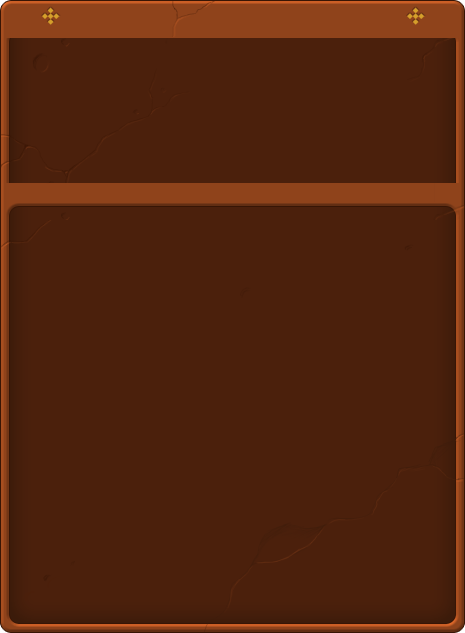
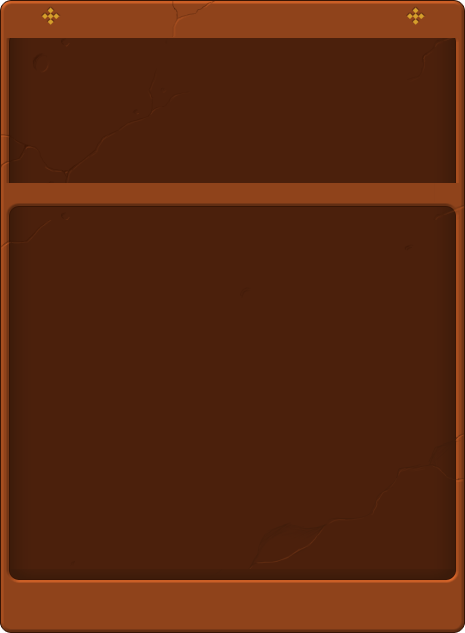
Seed Chooser polish

Changed region(s): [[0.0, 0.9005, 0.9935, 0.9905]]

diff --git a/Lawn/Widget/SeedChooserScreen.cpp b/Lawn/Widget/SeedChooserScreen.cpp
@@ -22,7 +22,7 @@
 #include "../../SexyAppFramework/Slider.h"
 #include "../System/PoolEffect.h"
 
-const Rect cSeedClipRect = Rect(0, 303, BOARD_WIDTH, 238 + SEED_CHOOSER_EXTRA_HEIGHT);
+const Rect cSeedClipRect = Rect(10, 294, 445, 252 + SEED_CHOOSER_EXTRA_HEIGHT);
 const int cSeedPacketYOffset = 2;
 const int cSeedPacketRows = 8;
 
@@ -54,7 +54,7 @@ SeedChooserScreen::SeedChooserScreen()
 	mStartButton->SetFont(Sexy::FONT_DWARVENTODCRAFT18YELLOW);
 	mStartButton->mColors[ButtonWidget::COLOR_LABEL] = Color::White;
 	mStartButton->mColors[ButtonWidget::COLOR_LABEL_HILITE] = Color::White;
-	mStartButton->Resize(154, 545 + SEED_CHOOSER_EXTRA_HEIGHT, 156, 42);
+	mStartButton->Resize(154, 552 + SEED_CHOOSER_EXTRA_HEIGHT, 156, 42);
 	mStartButton->mTextOffsetY = -1;
 	EnableStartButton(false);
 	mStartButton->mParentWidget = this;
@@ -308,7 +308,7 @@ void SeedChooserScreen::GetSeedPositionInChooser(int theIndex, int& x, int& y)
 	else
 	{
 		x = theIndex % cSeedPacketRows * 53 + 22;
-		y = theIndex / cSeedPacketRows * (SEED_PACKET_HEIGHT + cSeedPacketYOffset) + (SEED_PACKET_HEIGHT + 233) - mScrollPosition; //53  where seeds start
+		y = theIndex / cSeedPacketRows * (SEED_PACKET_HEIGHT + cSeedPacketYOffset) + (SEED_PACKET_HEIGHT + 231) - mScrollPosition; //53  where seeds start
 	}
 }
 
@@ -397,16 +397,16 @@ void SeedChooserScreen::Draw(Graphics* g)
 			mPreviewSeed == SeedType::SEED_FLOWERPOT ? Sexy::IMAGE_SEEDCHOOSER_GROUNDROOF : Sexy::IMAGE_SEEDCHOOSER_GROUNDDAY,
 			37, 125);
 	}
-	g->DrawImage(Sexy::IMAGE_SEEDCHOOSER_PLANTCARD, 0, 125);
-	if (mApp->SeedTypeAvailable(SEED_IMITATER))
-		g->DrawImage(Sexy::IMAGE_SEEDCHOOSER_IMITATERADDON, IMITATER_POS_X, IMITATER_POS_Y + SEED_CHOOSER_EXTRA_HEIGHT);
-	TodDrawString(g, _S("[CHOOSE_YOUR_PLANTS]"), 229, 110, Sexy::FONT_DWARVENTODCRAFT18YELLOW, Color::White, DS_ALIGN_CENTER);
 	if (mPlantPreview)
 	{
 		Graphics aPlantGraphics = Graphics(*g);
 		mPlantPreview->BeginDraw(&aPlantGraphics);
 		mPlantPreview->Draw(&aPlantGraphics);
 	}
+	g->DrawImage(Sexy::IMAGE_SEEDCHOOSER_PLANTCARD, 0, 125);
+	if (mApp->SeedTypeAvailable(SEED_IMITATER))
+	g->DrawImage(Sexy::IMAGE_SEEDCHOOSER_IMITATERADDON, IMITATER_POS_X, IMITATER_POS_Y + SEED_CHOOSER_EXTRA_HEIGHT);
+	TodDrawString(g, _S("[CHOOSE_YOUR_PLANTS]"), 229, 110, Sexy::FONT_DWARVENTODCRAFT18YELLOW, Color::White, DS_ALIGN_CENTER);
 	PlantDefinition& aPlantDef = GetPlantDefinition(mPreviewSeed);
 	SexyString aName = Plant::GetNameString(mPreviewSeed, SEED_NONE);
 	TodDrawString(g, aName, 136, 286, Sexy::FONT_DWARVENTODCRAFT18YELLOW, Color::White, DS_ALIGN_CENTER);
@@ -481,6 +481,26 @@ void SeedChooserScreen::Draw(Graphics* g)
 			DrawSeedPacket(g, aChosenSeed.mX, aChosenSeed.mY, aChosenSeed.mSeedType, aChosenSeed.mImitaterType, 0, 255, true, false);
 		}
 	}
+
+	//mask
+	g->SetClipRect(cSeedClipRect);
+	int fadeHeight = 5;
+	float t = mSlider->mVal;
+	float topStrength = (t <= 0.0f) ? 0.0f : powf(t, 0.25f);
+	float bottomStrength = (t >= 1.0f) ? 0.0f : powf(1.0f - t, 0.25f);
+	for (int i = 0; i < fadeHeight; i++)
+	{
+		int baseAlphaTop = (int)((180 - i * 35) * topStrength);
+		int baseAlphaBottom = (int)((180 - i * 35) * bottomStrength);
+		int inset = fadeHeight - i - 1;
+		int x = cSeedClipRect.mX + inset;
+		int w = cSeedClipRect.mWidth - inset * 2;
+		g->SetColor(Color(0, 0, 0, baseAlphaTop));
+		g->FillRect(x,cSeedClipRect.mY + i,w,1);
+		g->SetColor(Color(0, 0, 0, baseAlphaBottom));
+		g->FillRect(x,cSeedClipRect.mY + cSeedClipRect.mHeight - 1 - i,w,1);
+	}
+	g->ClearClipRect();
 
 	int aNumSeedsInBank = mBoard->mSeedBank->mNumPackets;
 	for (int anIndex = 0; anIndex < aNumSeedsInBank; anIndex++)
@@ -609,7 +629,7 @@ void SeedChooserScreen::Update()
 
 	mRandomButton->mBtnNoDraw = !mApp->mTodCheatKeys;
 	mRandomButton->mDisabled = !mApp->mTodCheatKeys;
-	mMaxScrollPosition = max(0, (((NUM_SEEDS_IN_CHOOSER - 2) / cSeedPacketRows) * (SEED_PACKET_HEIGHT + cSeedPacketYOffset)) + SEED_PACKET_HEIGHT - cSeedClipRect.mHeight);
+	mMaxScrollPosition = max(0, (((NUM_SEEDS_IN_CHOOSER - 2) / cSeedPacketRows) * (SEED_PACKET_HEIGHT + cSeedPacketYOffset)) + SEED_PACKET_HEIGHT - cSeedClipRect.mHeight + 14);
 	mSlider->mVisible = mMaxScrollPosition != 0;
 	if (mSlider->mVisible)
 	{
@@ -655,7 +675,7 @@ void SeedChooserScreen::Update()
 	mAlmanacButton->Update();
 	mStoreButton->Update();
 	mMenuButton->Update();
-	if (mPlantPreview) mPlantPreview->Update();
+	if (mPlantPreview && !mApp->mBoard->mPaused) mPlantPreview->Update();
 	UpdateViewLawn();
 	UpdateCursor();
 	if(!mApp->GetDialog(DIALOG_ALMANAC))mApp->mPoolEffect->PoolEffectUpdate();
@@ -1371,12 +1391,17 @@ void SeedChooserScreen::SetupPlantPreview() {
 
 	switch (mPreviewSeed)
 	{
-	case SEED_TALLNUT: aPosY += 18; break;
+	case SEED_TALLNUT: aPosY += 16; break;
 	case SEED_COBCANNON: aPosX -= 30; break;
 	case SEED_FLOWERPOT: aPosY -= 20; break;
-	case SEED_LILYPAD: aPosY -= 10; break;
+	case SEED_LILYPAD:
+	case SEED_TANGLEKELP: 
+	case SEED_SEASHROOM: aPosY -= 5; break;
 	case SEED_INSTANT_COFFEE: aPosY += 5; break;
 	case SEED_GRAVEBUSTER: aPosY += 50; aPosX += 5; break;
+	case SEED_SCAREDYSHROOM: aPosY += 8; aPosX += 6; break;
+	case SEED_MELONPULT:
+	case SEED_WINTERMELON: aPosY += 8; break;
 	}
 
 	mPlantPreview = new Plant();